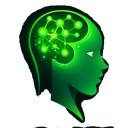
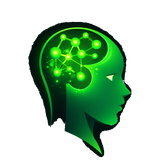
Corrige el ícono de marca en tema claro
El ícono recortado (fondo transparente) está diseñado con brillos
pensados para fondo oscuro; sobre el nav/login en tema claro se veía
crudo. Se agrega un fondo oscuro tipo badge con esquinas redondeadas
detrás del ícono, solo en data-theme="light" (nav y login; el footer
se mantiene siempre oscuro y no lo necesita).

De paso se regenera dataseed-icon.png/favicon.ico con más margen
alrededor del dibujo (el recorte anterior quedaba pegado al borde).
dataseed_logo_black.png (logo completo) no se modifica.

diff --git a/site/index.html b/site/index.html
@@ -823,7 +823,7 @@ footer::before{
 
 html[data-theme="light"] body{background:linear-gradient(180deg,#f7fcf8 0%,#eef8f0 100%);}
 html[data-theme="light"] nav{background:rgba(247,252,248,.86);border-bottom-color:rgba(0,143,44,.16);}
-html[data-theme="light"] .logo img{filter:drop-shadow(0 0 10px rgba(0,143,44,.22));}
+html[data-theme="light"] .logo img{filter:drop-shadow(0 0 10px rgba(0,143,44,.22));background:#050e06;border-radius:10px;padding:3px;}
 html[data-theme="light"] .nav-login{background:rgba(0,143,44,.035);border-color:rgba(0,143,44,.2);}
 html[data-theme="light"] .nav-login:hover{background:rgba(0,143,44,.08);border-color:rgba(0,143,44,.38);}
 html[data-theme="light"] .nav-cta{color:#f7fff8;box-shadow:0 0 24px rgba(0,143,44,.18);}

diff --git a/site/login.css b/site/login.css
@@ -134,6 +134,7 @@ svg { display: block; fill: none; stroke: currentColor; stroke-linecap: round; s
   text-decoration: none;
 }
 .brand img { width: 44px; height: 44px; filter: drop-shadow(0 0 12px rgba(0, 255, 65, 0.28)); }
+html[data-theme="light"] .brand img { background: #050e06; border-radius: 10px; padding: 3px; filter: drop-shadow(0 0 10px rgba(0, 143, 44, 0.22)); }
 .brand strong { display: block; font-family: var(--font-display); font-size: 1.15rem; font-weight: 700; letter-spacing: -0.01em; }
 .brand small { display: block; margin-top: 0.1rem; color: var(--muted); font-size: 0.55rem; font-weight: 600; letter-spacing: 0.28em; text-transform: uppercase; }
 
